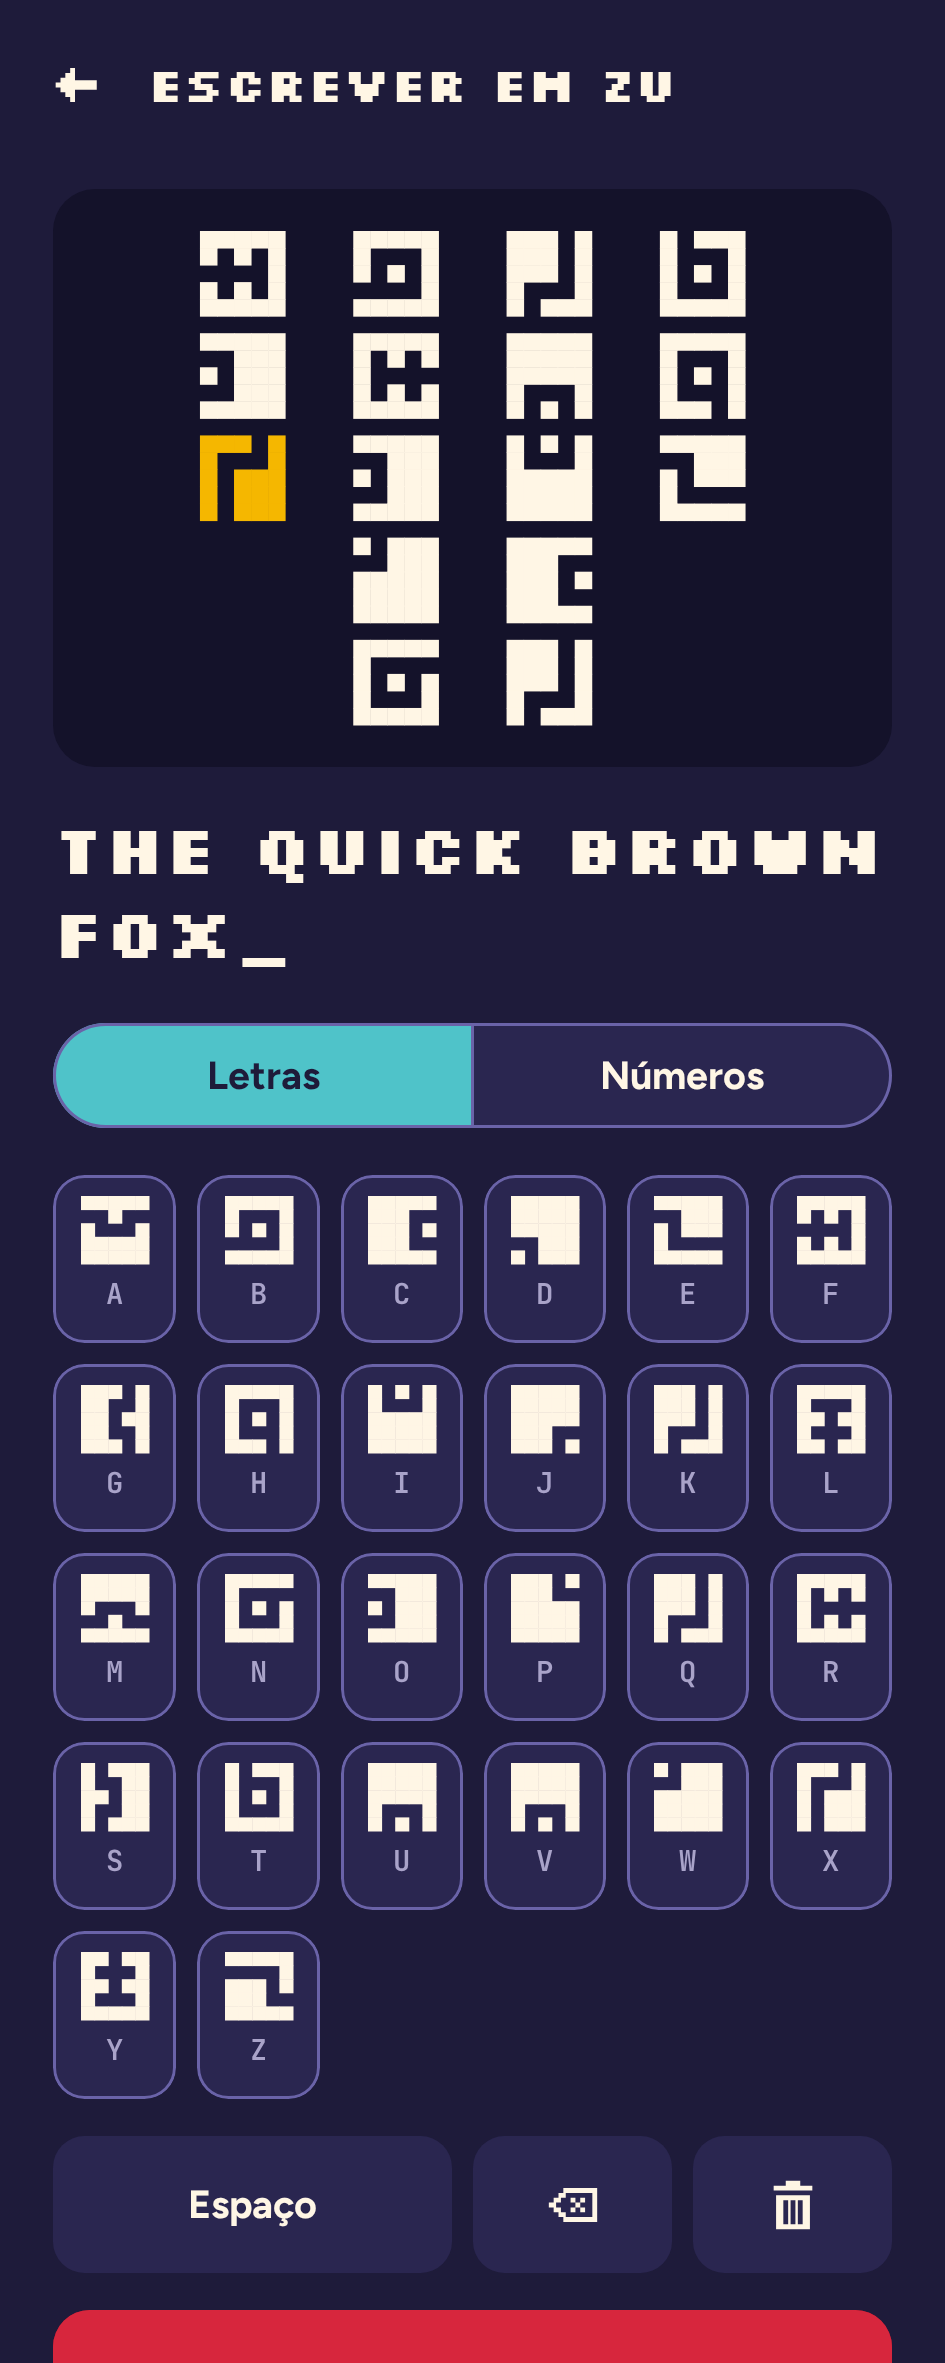
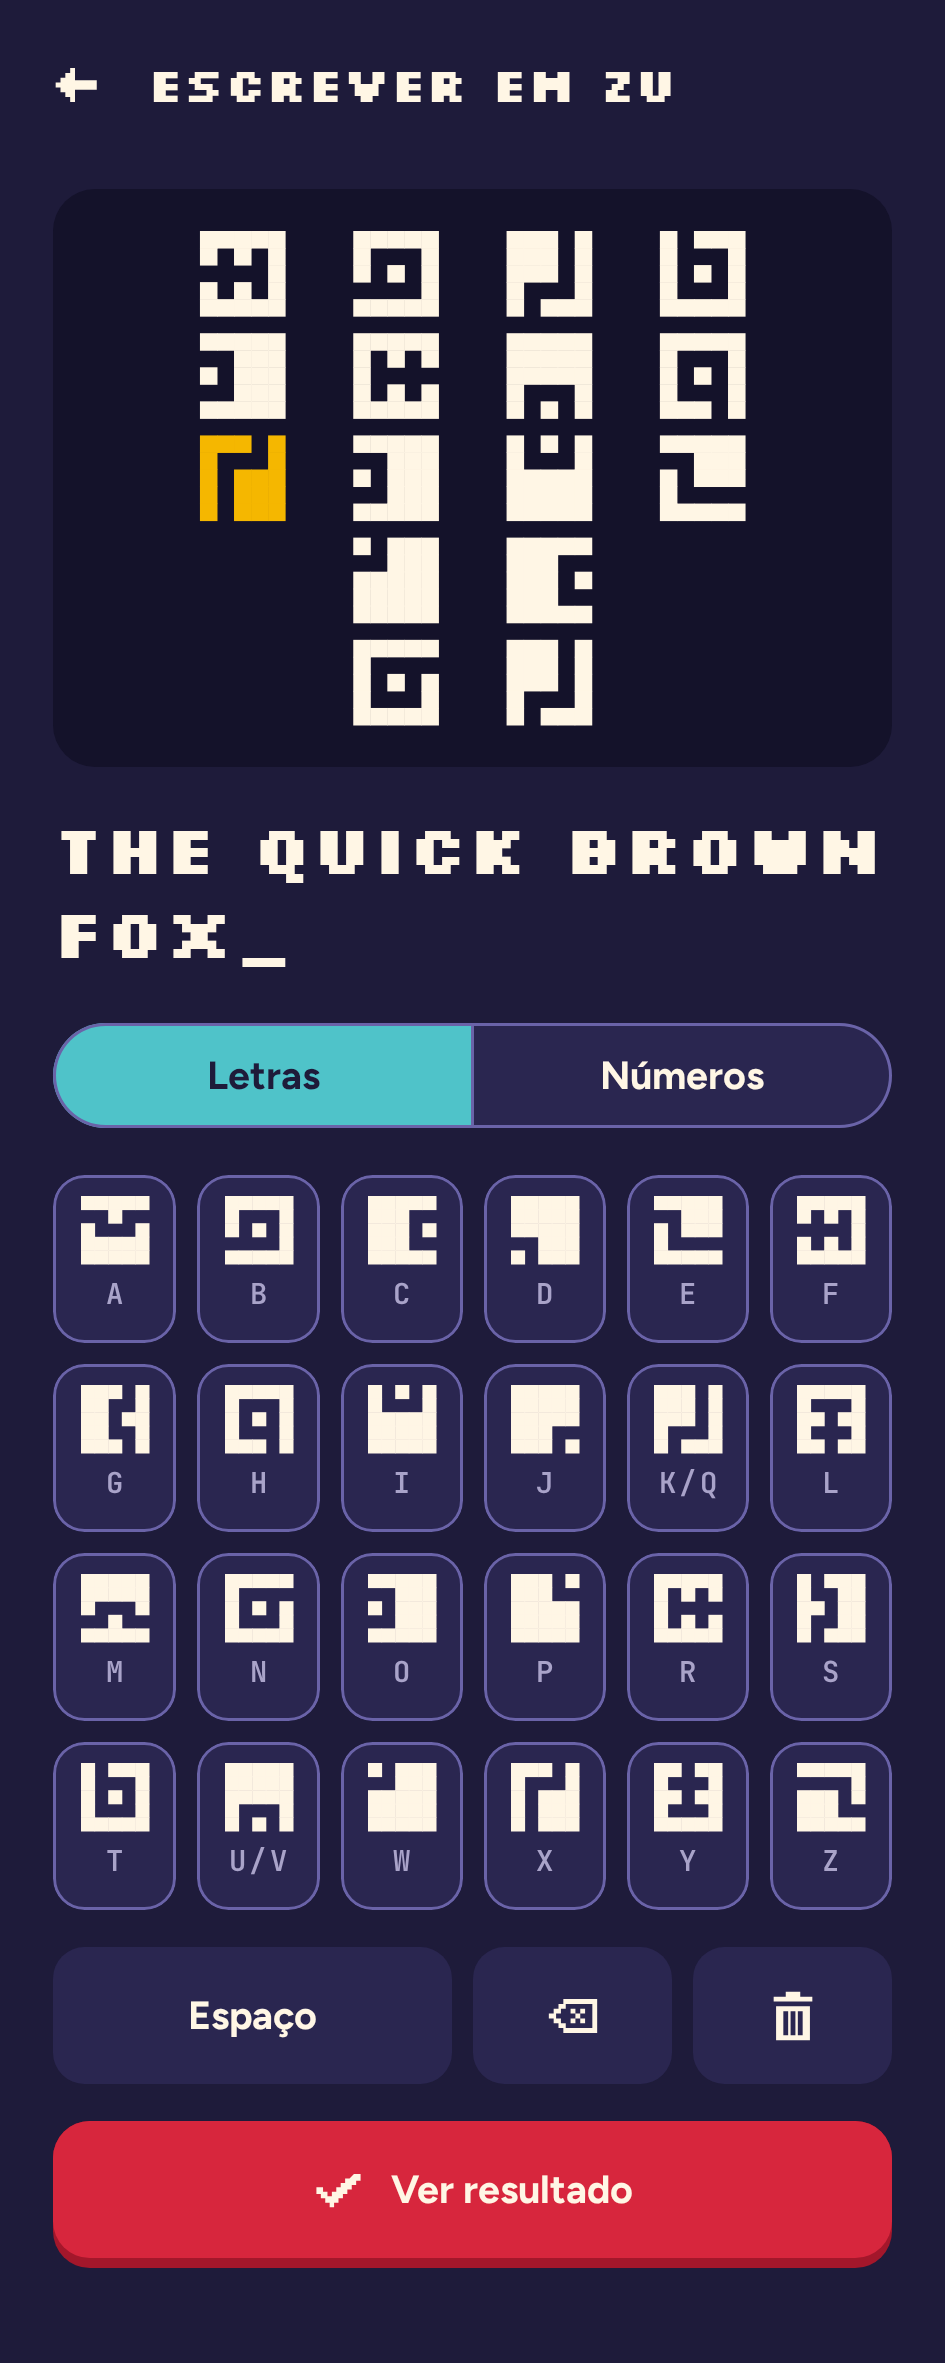
Write by hand: one key per glyph; K/Q and U/V from English context
The keyboard has the 24 letter glyphs once each. The shared glyphs
(K/Q, U/V) get their letter from the English model, word by word, and
it updates as the user types (KU becomes QU), like reading a photo.

Claude-Session: https://claude.ai/code/session_01BCnJVnooueZi2qjpizvg1o

diff --git a/app/src/main/kotlin/com/davicolzer/zureader/ui/write/WriteScreen.kt b/app/src/main/kotlin/com/davicolzer/zureader/ui/write/WriteScreen.kt
@@ -55,7 +55,10 @@ import com.davicolzer.zureader.ui.theme.ZuTheme
 import com.davicolzer.zureader.vision.ZuWriter
 import com.davicolzer.zureader.zu.ReadingDirection
 import com.davicolzer.zureader.zu.ReadingMode
-import com.davicolzer.zureader.zu.ZuMixed
+import com.davicolzer.zureader.zu.SharedLetters
+import com.davicolzer.zureader.zu.ZuAlphabet
+import com.davicolzer.zureader.zu.ZuGlyph
+import com.davicolzer.zureader.zu.ZuNumerals
 
 /**
  * Escrever à mão: o usuário toca nos desenhos dos glifos e monta a mensagem. Em cima, a mensagem
@@ -95,12 +98,14 @@ fun WriteScreen(
                 .padding(horizontal = 20.dp, vertical = 8.dp),
             verticalArrangement = Arrangement.spacedBy(14.dp),
         ) {
-            ZuPreview(text, direction)
+            // K/Q e U/V dividem o glifo: a letra vem do contexto do inglês e muda enquanto o usuário digita
+            val message = SharedLetters.resolve(ZuWriter.normalize(text))
+            ZuPreview(message, direction)
             // texto em inglês, com cursor
             Text(
-                (ReadingMode.MIXED.display(ZuWriter.normalize(text)).takeIf { it.isNotEmpty() } ?: "") + "_",
+                ReadingMode.MIXED.display(message) + "_",
                 style = MaterialTheme.typography.headlineMedium,
-                modifier = Modifier.fillMaxWidth().semantics { contentDescription = ZuWriter.normalize(text) },
+                modifier = Modifier.fillMaxWidth().semantics { contentDescription = message },
             )
 
             SingleChoiceSegmentedButtonRow(Modifier.fillMaxWidth()) {
@@ -122,11 +127,12 @@ fun WriteScreen(
                 }
             }
 
-            val keys = if (numbers) ('0'..'9').toList() + ReadingMode.TEN else ('A'..'Z').toList()
+            // um glifo de cada: 24 letras (K/Q e U/V numa tecla só) ou os 11 números
+            val keys = if (numbers) (('0'..'9').toList() + ReadingMode.TEN).map { ZuNumerals.glyphFor(it) } else ZuAlphabet.glyphs
             Column(verticalArrangement = Arrangement.spacedBy(8.dp)) {
                 keys.chunked(KEYS_PER_ROW).forEach { row ->
                     Row(horizontalArrangement = Arrangement.spacedBy(8.dp)) {
-                        row.forEach { symbol -> GlyphKey(symbol, Modifier.weight(1f)) { text += symbol } }
+                        row.forEach { glyph -> GlyphKey(glyph, Modifier.weight(1f)) { text += glyph.primary } }
                         repeat(KEYS_PER_ROW - row.size) { Spacer(Modifier.weight(1f)) }
                     }
                 }
@@ -143,7 +149,7 @@ fun WriteScreen(
             }
 
             if (ZuWriter.normalize(text).isNotEmpty()) {
-                PixelPrimaryButton(stringResource(R.string.write_done), R.drawable.ic_pixel_check, onClick = { onDone(text) })
+                PixelPrimaryButton(stringResource(R.string.write_done), R.drawable.ic_pixel_check, onClick = { onDone(message) })
             }
         }
     }
@@ -153,8 +159,8 @@ private const val KEYS_PER_ROW = 6
 
 /** A mensagem desenhada em Zu, ajustada ao quadro; o último glifo em dourado. */
 @Composable
-private fun ZuPreview(text: String, direction: ReadingDirection) {
-    val glyphs = remember(text, direction) { ZuWriter.layout(text, direction) }
+private fun ZuPreview(message: String, direction: ReadingDirection) {
+    val glyphs = remember(message, direction) { ZuWriter.layout(message, direction) }
     val ink = MaterialTheme.colorScheme.onBackground
     val last = ZuTheme.colors.gold
     Box(
@@ -198,10 +204,10 @@ private fun ZuPreview(text: String, direction: ReadingDirection) {
     }
 }
 
-/** Tecla com o desenho do glifo e a letra embaixo. */
+/** Tecla com o desenho do glifo e a letra (ou as duas letras, como K/Q) embaixo. */
 @Composable
-private fun GlyphKey(symbol: Char, modifier: Modifier, onClick: () -> Unit) {
-    val label = ReadingMode.MIXED.symbolLabel(symbol)
+private fun GlyphKey(glyph: ZuGlyph, modifier: Modifier, onClick: () -> Unit) {
+    val label = glyph.letters.map(ReadingMode.MIXED::symbolLabel).joinToString("/")
     Column(
         modifier
             .heightIn(min = 64.dp)
@@ -214,7 +220,7 @@ private fun GlyphKey(symbol: Char, modifier: Modifier, onClick: () -> Unit) {
         horizontalAlignment = Alignment.CenterHorizontally,
         verticalArrangement = Arrangement.spacedBy(4.dp),
     ) {
-        MiniGlyph(ZuMixed.glyphFor(symbol).pattern, MaterialTheme.colorScheme.onSurface, size = 26.dp)
+        MiniGlyph(glyph.pattern, MaterialTheme.colorScheme.onSurface, size = 26.dp)
         Text(label, style = MaterialTheme.typography.labelSmall, color = MaterialTheme.colorScheme.onSurfaceVariant)
     }
 }

diff --git a/core/zu/src/main/kotlin/com/davicolzer/zureader/zu/SharedLetters.kt b/core/zu/src/main/kotlin/com/davicolzer/zureader/zu/SharedLetters.kt
@@ -1,0 +1,47 @@
+package com.davicolzer.zureader.zu
+
+/**
+ * K/Q e U/V usam o mesmo glifo. Ao escrever à mão, o usuário toca no glifo e a letra é escolhida
+ * pelo contexto do inglês, palavra por palavra, como na leitura de uma foto.
+ */
+object SharedLetters {
+    /** Até tantas letras ambíguas numa palavra testa todas as combinações; acima, uma a uma. */
+    private const val MAX_EXACT = 10
+
+    /** [text] com cada K/Q e U/V trocado pela letra mais provável no inglês (espaços mantidos). */
+    fun resolve(text: String): String = text.split(' ').joinToString(" ") { resolveWord(it) }
+
+    private fun resolveWord(word: String): String {
+        val choices = word.map { c -> ZuAlphabet.glyphs.firstOrNull { c in it.letters }?.letters?.takeIf { it.length > 1 } ?: c.toString() }
+        val ambiguous = choices.indices.filter { choices[it].length > 1 }
+        if (ambiguous.isEmpty()) return word
+        if (ambiguous.size <= MAX_EXACT) {
+            var best = word
+            var bestScore = Int.MIN_VALUE
+            for (mask in 0 until (1 shl ambiguous.size)) {
+                val chars = word.toCharArray()
+                ambiguous.forEachIndexed { k, i -> chars[i] = choices[i][(mask shr k) and 1] }
+                val candidate = String(chars)
+                val s = score(candidate)
+                if (s > bestScore) { bestScore = s; best = candidate }
+            }
+            return best
+        }
+        // muitas: decide uma por vez, da esquerda para a direita
+        val chars = word.toCharArray()
+        for (i in ambiguous) chars[i] = choices[i].maxBy { c -> chars[i] = c; score(String(chars)) }
+        return String(chars)
+    }
+
+    /** Pontuação da palavra no modelo do inglês (com as fronteiras); números não contam. */
+    private fun score(word: String): Int {
+        var s = 0
+        var prev = EnglishModel.BOUNDARY
+        for (c in word) {
+            if (c !in 'A'..'Z') { prev = EnglishModel.BOUNDARY; continue }
+            s += EnglishModel.logProb(prev, c)
+            prev = c
+        }
+        return s + EnglishModel.logProb(prev, EnglishModel.BOUNDARY)
+    }
+}

diff --git a/core/zu/src/test/kotlin/com/davicolzer/zureader/zu/SharedLettersTest.kt b/core/zu/src/test/kotlin/com/davicolzer/zureader/zu/SharedLettersTest.kt
@@ -1,0 +1,29 @@
+package com.davicolzer.zureader.zu
+
+import org.junit.jupiter.api.Assertions.assertEquals
+import org.junit.jupiter.api.Test
+
+class SharedLettersTest {
+    @Test
+    fun `escolhe K ou Q e U ou V pelo ingles`() {
+        // o teclado manda sempre a primeira letra do glifo (K, U)
+        assertEquals("THE QUICK BROWN FOX", SharedLetters.resolve("THE KUICK BROWN FOX"))
+        assertEquals("KEY", SharedLetters.resolve("KEY"))
+        assertEquals("JUMPS OVER THE LAZY DOG", SharedLetters.resolve("JUMPS OUER THE LAZY DOG"))
+        assertEquals("VERY QUIET", SharedLetters.resolve("UERY KUIET"))
+        assertEquals("UP", SharedLetters.resolve("UP"))
+    }
+
+    @Test
+    fun `atualiza enquanto digita`() {
+        // com uma letra só ainda não dá para saber; ao chegar o U, o K vira Q
+        assertEquals("QU", SharedLetters.resolve("KU"))
+        assertEquals("QUI", SharedLetters.resolve("KUI"))
+    }
+
+    @Test
+    fun `sem letras ambiguas e com numeros fica igual`() {
+        assertEquals("ROOM 12", SharedLetters.resolve("ROOM 12"))
+        assertEquals("", SharedLetters.resolve(""))
+    }
+}

diff --git a/docs/PLANO.md b/docs/PLANO.md
@@ -148,7 +148,7 @@ Fontes: **Silkscreen** (títulos e texto lido, pixel), **Figtree** (interface), 
 | **6b. Modelo treinado (opcional)** 🧪 | Testado: rede pequena (MLP 16×16 → 96 → 24 glifos + "não é glifo") treinada com numpy em ~93 mil recortes sintéticos degradados + glifos das paredes reais (gerador `GlyphNetDataGenerator`, script `tools/train_glyphnet.py`); 99,3% na validação. No leitor, ela resgatava glifos borrados e descartava lixo | **Não entrou no app**: nas lápides (fora do treino) o resultado oscilou — lápide 2 inteira subiu de 79% para 95%, mas as recortadas caíram (95% → 84% e 69% → 13%); restringir a correção a grades parecidas não deixou nenhuma variante melhor em todas as fotos. Retomar com mais fotos reais de lápides/pedra para treino |
 | **7. Tradução (opcional)** | ML Kit Translation EN → PT no aparelho, mostrando inglês e português | Só se o projeto decidir retomar a tradução |
 | **8. Números** ✅ | Seletor **Auto / Escrita / Números** (Auto é o padrão: lê em paralelo como escrita, como números e **misturado** — letras e números na mesma frase, ex.: "ROOM 12" —, uma thread por modo, e fica com a leitura de nota maior; a mista só vale com letras e números confiantes no mesmo bloco e letras iguais às da leitura só de escrita; nenhuma letra tem moldura completa e o par mais parecido, B e 0, difere em 2 quadradinhos) na tela inicial e na câmera (fica salvo). Modo números: 16 desenhos (0–10 e variantes de 3–7, todos com moldura e miolo 3×3), sem modelo do inglês, orientação da foto; resultado "3 10 7 / 1 2", correção com teclado 0–10; o modo fica salvo na leitura do histórico; exemplos aprendidos separados por modo | Testes: 16 desenhos distintos com moldura, cada um reconhecido; números em colunas, com ruído, em imagem com borrão/ruído/JPEG e colorida; modo escrita não devolve números; leitura salva guarda o modo (e as antigas abrem como escrita). Tabela real dos números do jogo (0–10, enviada pelo usuário) bate com os 16 desenhos e é lida inteira no modo Auto (`RealNumbersTest`). Placas da biblioteca (números encostados numa faixa em relevo): fatiadas de 4 em 4 blocos; recortadas, são lidas como números. **Falta**: gabarito dos dígitos dessas placas e leitura sem recorte |
-| **9. Escrever à mão (teclado Zu)** ✅ | **Terceira opção na tela inicial** ("Escrever à mão"), no mesmo nível de "Fotografar" e "Escolher da galeria". Teclado com os desenhos dos glifos (abas Letras e Números, 6 teclas por linha, K/Q e U/V com o mesmo desenho), Espaço, Apagar e Limpar tudo; em cima, a mensagem em Zu em colunas (como no jogo, na direção de leitura escolhida, último glifo em dourado) e o texto em inglês. "Ver resultado" abre a tela de resultado (copiar, compartilhar, salvar no histórico, zoom); voltar reabre o teclado com o texto. A leitura é exata (`ZuWriter`): a letra escolhida vale, sem o modelo do inglês | Testes: texto vira imagem e leitura exata (K/Q do usuário mantido; o leitor de imagens lê a mesma coisa na imagem gerada), números e misto, caixas em cima dos glifos desenhados, salvar e abrir igual. Capturas: [tela inicial](design/home-escrever-android.png), [teclado](design/escrever-vazio-android.png), [mensagem](design/escrever-texto-android.png), [resultado](design/escrever-resultado-android.png) |
+| **9. Escrever à mão (teclado Zu)** ✅ | **Terceira opção na tela inicial** ("Escrever à mão"), no mesmo nível de "Fotografar" e "Escolher da galeria". Teclado com os desenhos dos glifos, um de cada (abas Letras e Números, 6 teclas por linha; K/Q e U/V numa tecla só, com a letra escolhida pelo contexto do inglês e atualizada enquanto o usuário digita, como na leitura de foto: `SharedLetters`), Espaço, Apagar e Limpar tudo; em cima, a mensagem em Zu em colunas (como no jogo, na direção de leitura escolhida, último glifo em dourado) e o texto em inglês. "Ver resultado" abre a tela de resultado (copiar, compartilhar, salvar no histórico, zoom); voltar reabre o teclado com o texto. A leitura é exata (`ZuWriter`): o texto montado vira a leitura sem passar pelo leitor de imagens | Testes: texto vira imagem e leitura exata (K/Q do usuário mantido; o leitor de imagens lê a mesma coisa na imagem gerada), números e misto, caixas em cima dos glifos desenhados, salvar e abrir igual. Capturas: [tela inicial](design/home-escrever-android.png), [teclado](design/escrever-vazio-android.png), [mensagem](design/escrever-texto-android.png), [resultado](design/escrever-resultado-android.png) |
 
 ### Dados de teste
 
